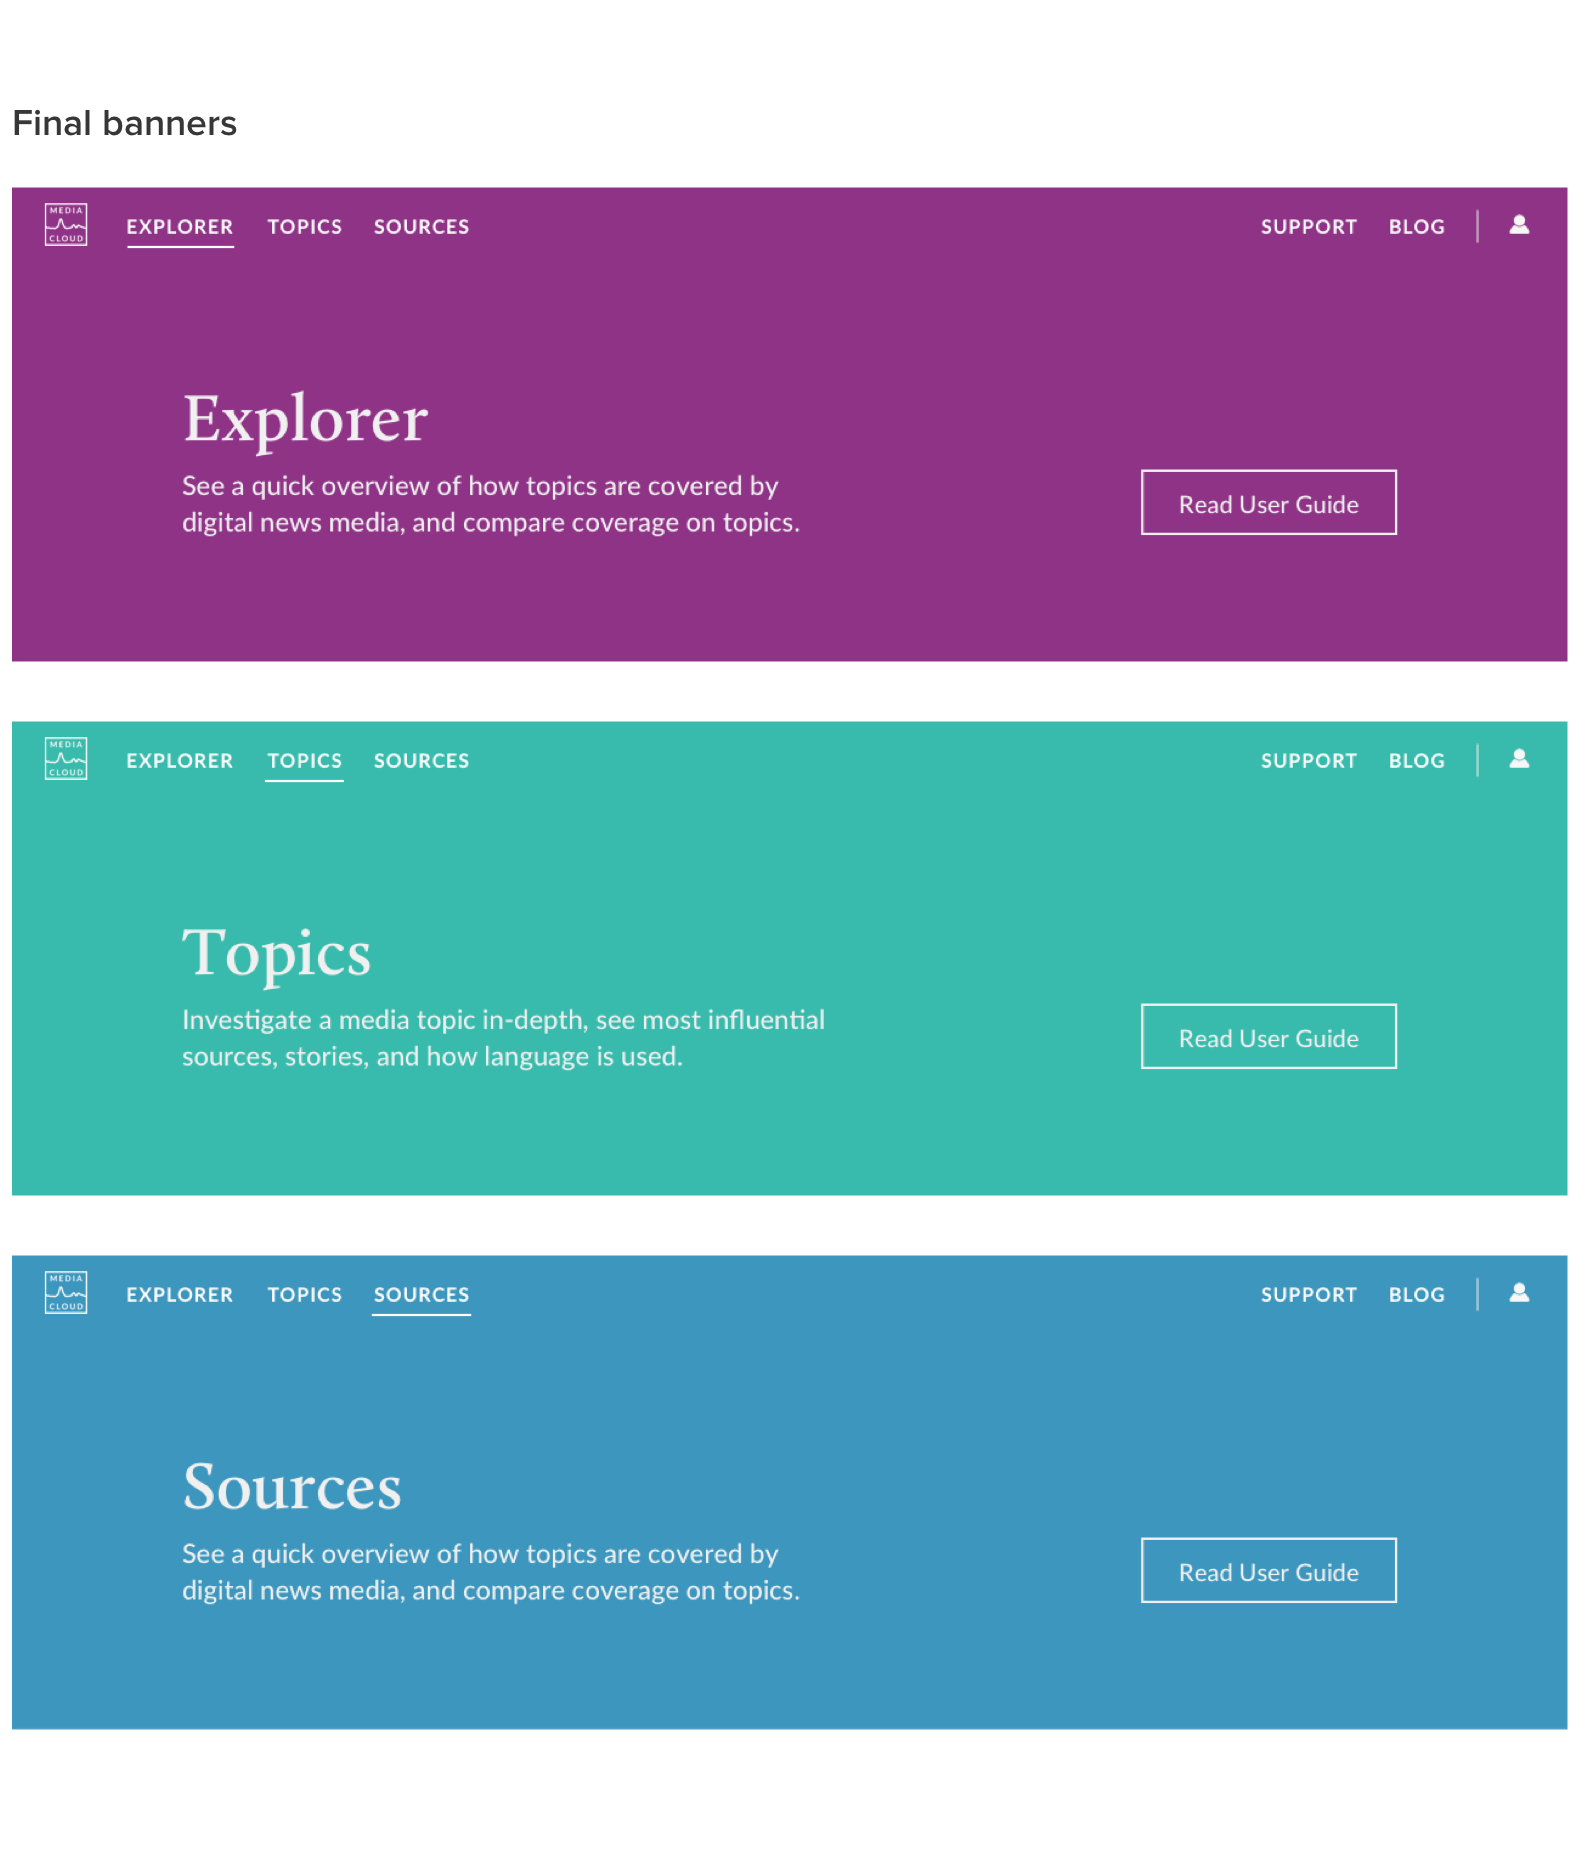
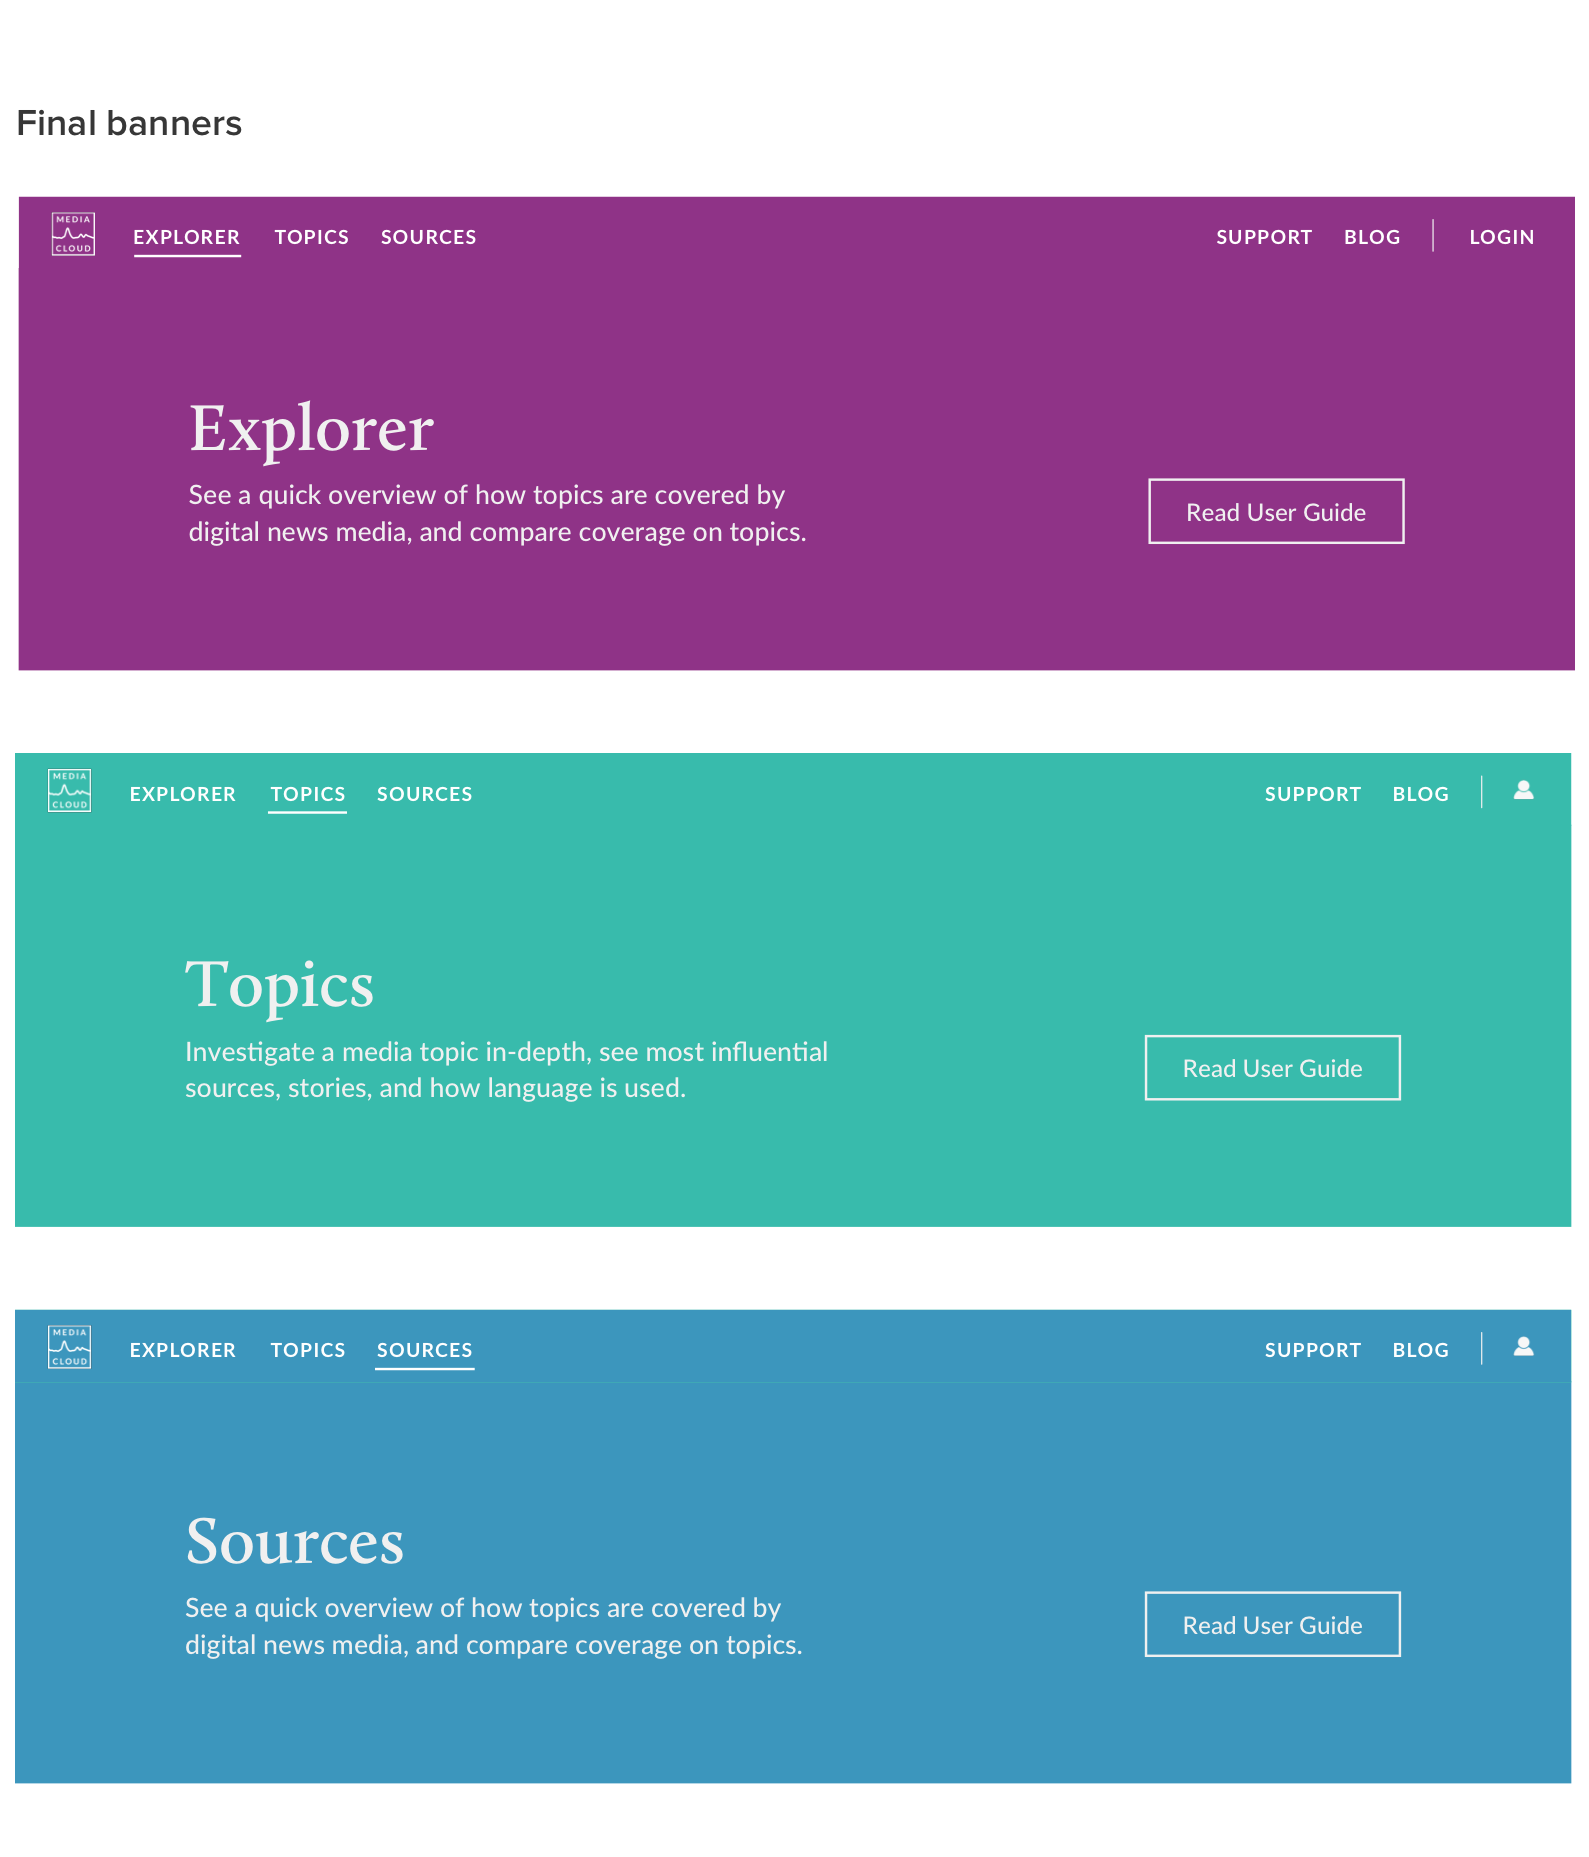
improvements to media cloud case

diff --git a/projects/mediacloud/home.html b/projects/mediacloud/home.html
@@ -63,7 +63,7 @@
 
     <div class="section">
       <div class="container">
-        <div class="col-lg-9 mx-auto">
+        <div class="col-lg-8 mx-auto">
           <h3>Problem</h3>
           <p class="lead">
             Since Media Cloud was originally built for "expert" users (academic researchers at MIT and Harvard we work closely with),
@@ -82,9 +82,9 @@
         <div class="col-lg-11 mx-auto">
             <img src="audit.png" class="no-shadow" alt="Annotated screenshot">
         </div>
-        <div class="col-lg-9 mx-auto">
+        <div class="col-lg-8 mx-auto">
           <p class="lead">
-            Next, I began the empathy process of understanding novice users' needs, goals, and pain points. I conducted a survey, spoke to users over video chat, and
+            Next, I talked to Media Cloud users to gain empathy and better understand their needs, goals, and pain points. I conducted a survey, spoke to users over video chat, and
             observed as users showed me how they use the product. Here are some of the questions I asked, adjusted based on the user's familiarity with Media Cloud:
             <div class="feature-group">
               <div class="col-sm-11 mx-auto feature-1-col">
@@ -172,13 +172,11 @@
                 </div>
               </div>
             </div>
-            <br><br>
-            After sharing these research findings with the team, we brainstormed various ways we could address the issues we discovered (which I will discuss soon).
           </p>
           <hr>
           <h3>Design Goals</h3>
           <p class="lead">
-            Before diving into specific solutions, I set a few high-level design goals for myself.
+            After sharing these research findings with the team and brainstorming various ways we could address the issues we discovered, I set a few high-level design goals for myself before diving into specific design solutions.
           </p>
           <div class="feature-group">
             <div class="col-sm-11 mx-auto feature-1-col">
@@ -217,23 +215,31 @@
             I chose a beautiful serif font called Calluna for headings, and Lato as a standard, easily readable font for body text.
           </p>
         </div>
-        <div class="col-lg-8 mx-auto">
-            <img src="brand.png" class="no-shadow" alt="Navigation critique">
+        <div class="col-lg-11 mx-auto">
+          <img src="brand.png" class="no-shadow" alt="Navigation critique">
         </div>
-        <div class="col-lg-9 mx-auto">
+        <div class="col-lg-8 mx-auto">
           <hr>
           <h3 id="nav">Solution 1: Navigation Redesign</h3>
           <p class="lead">
             One of the most obvious usability issues was the platform's navigation scheme. Without a simple and clear navigation scheme, users felt lost and overwhelmed, and had trouble
             discovering important features like logging in and support resources.
           </p>
+        </div>
+        <div class="col-lg-11 mx-auto">
           <img src="nav_critique.png" class="no-shadow" alt="Navigation critique">
+        </div>
+        <div class="col-lg-8 mx-auto">
           <p class="lead">
             Early on, I explored many iterations of minimalist navigation bars using white and light gray as background colors, with color accents to indicate what is selected. However,
             when placed over screenshots of the interface, the overall result looked barren and unfinished. In my final designs, I opted for bold background colors to make the interface feel more anchored.
           </p>
+        </div>
+        <div class="col-lg-11 mx-auto">
           <img src="nav_minimal.png" class="no-shadow" alt="Navigation explorations">
           <img src="nav_redesigned.png" class="no-shadow" alt="Redesigned navigation bar">
+        </div>
+        <div class="col-lg-8 mx-auto">
           <p class="lead">Features of the redesigned navigation bar:</p>
           <div class="feature-group">
             <div class="col-sm-11 mx-auto feature-1-col">
@@ -283,25 +289,41 @@
             The original navigation bar had a description of each tool at the top right, but users had trouble noticing it due to its low contrast and placement.
             Here are some layouts I explored in the redesign:
           </p>
+        </div>
+        <div class="col-lg-11 mx-auto">
           <img src="banner_exploration.png" class="no-shadow large-space" alt="Banner design explorations">
+        </div>
+        <div class="col-lg-8 mx-auto">
           <p class="lead">
             In the redesign, I aimed to increase the description's visibility and create a call to action to read the user guides as a better way to onboard users.
             Increasing the height of the banner and the font size, using center and left text alignment, and making sure there was enough
             contrast between the text and background went a long way. Here are the final designs that the team chose:
           </p>
+        </div>
+        <div class="col-lg-11 mx-auto">
           <img src="banner_final.png" class="no-shadow large-space" alt="Final banner design">
+        </div>
+        <div class="col-lg-8 mx-auto">
           <hr>
           <h3 id="explorer">Solution 3: Goodbye Dashboard, Hello Explorer</h3>
           <p class="lead">
             For years, the first thing users would see upon arriving at Media Cloud was the Dashboard, a search query builder that allows you to quickly learn about
             media coverage on a topic at a high level. Its interface was visually overwhelming and lacked contextualization. Here's what I learned via observation and user interviews:
           </p>
+        </div>
+        <div class="col-lg-11 mx-auto">
           <img src="dashboard_critique.png" class="no-shadow large-space" alt="Issues with Dashboard">
+        </div>
+        <div class="col-lg-8 mx-auto">
           <p class="lead">
             I began the redesign by sketching out layouts aimed to address as many user problems as possible. My focus was on simplifying the interface, creating a better query builder,
             and helping users understand search results.
           </p>
+        </div>
+        <div class="col-lg-11 mx-auto">
           <img src="explorer_sketch.png" class="no-shadow large-space" alt="Explorer sketches">
+        </div>
+        <div class="col-lg-8 mx-auto">
           <p class="lead">
             Something I learned from watching expert users use Dashboard was they they frequently built <b>long query strings (sometimes upwards of 200 characters per query)</b>. Since Media Cloud
             uses Solr as its text indexing and search engine, it's able to parse boolean syntax, eliminate unwanted words from results, and much more. This is an incredibly powerful feature
@@ -311,7 +333,11 @@
             In an attempt to help novice users learn how to build custom search queries, I explored query builder interfaces that involved drag-and-drop interactions, using familiar words like "and," "or," and "not."
             <b>Here, I had to make some tradeoffs between conveying functionality and visual simplicity.</b> These are a few of the iterations:
           </p>
+        </div>
+        <div class="col-lg-11 mx-auto">
           <img src="explorer_wireframes.png" class="no-shadow large-space" alt="Explorer wireframes">
+        </div>
+        <div class="col-lg-8 mx-auto">
           <p class="lead">
             The team thought that the boolean query builder interfaces were promising, but ultimately we couldn't move forward with them because the engineering team did not have enough bandwidth to
             build such a frontend-heavy interface (with many edge cases to consider) at the time. <b>Ultimately, we decided to build a simpler interface without boolean elements and created a support
@@ -319,7 +345,11 @@
             <br><br>
             Here are the final designs of the home page and search page:
           </p>
+        </div>
+        <div class="col-lg-11 mx-auto">
           <img src="explorer_home.png" class="no-shadow large-space" alt="Final Explorer home page design">
+        </div>
+        <div class="col-lg-8 mx-auto">
           <p class="lead">
             The home page is purely meant to give users more context about Explorer before diving into query building, where things get more interesting (albeit more complicated). The carousel is
             filled with sample searches curated by our team, in order to give users an idea of what they could search for. This is especially useful to users who are simply curious about the
@@ -327,7 +357,11 @@
             <br><br>
             Clicking "Search" takes them to the Explorer search page. Users who have a Media Cloud account and are logged in are launched into the search page directly.
           </p>
+        </div>
+        <div class="col-lg-11 mx-auto">
           <img src="explorer_search.png" class="no-shadow large-space" alt="Final Explorer results design">
+        </div>
+        <div class="col-lg-8 mx-auto">
           <h3>Results</h3>
           <p class="lead">
             After several rounds of tweaks and solving edge cases, these designs are currently being developed and will be live on Media Cloud! :) Hoping I'll
